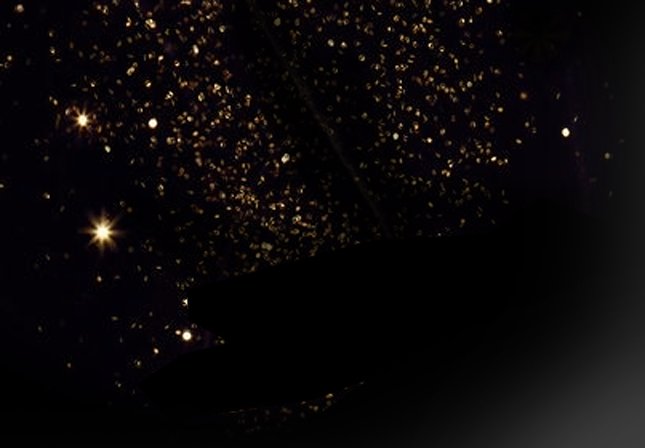
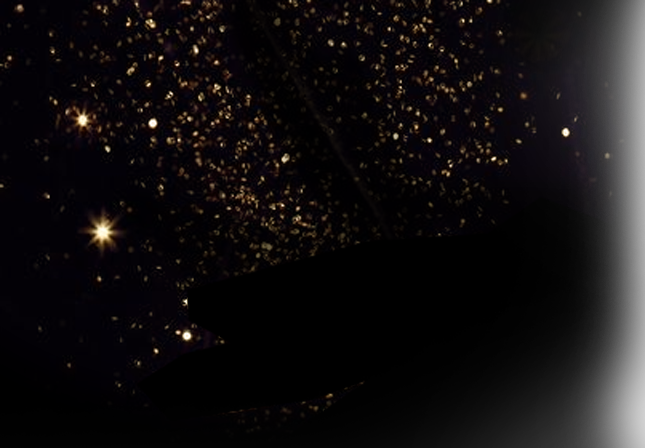
image 배치

Changed region(s): [[0.8682, 0.0, 1.0, 1.0]]

diff --git a/css/style.css b/css/style.css
@@ -30,7 +30,22 @@ body { font: 12px /1.4 arial, sans-serif; color:#666; overflow-x:hidden;}
 #gnb>li>a {display:inline-block;color:#fff; cursor:pointer;}
 #gnb>li>a.on { color:#d01964; }
 
-  
+
+.imggrp {}
+.imggrp img:nth-child(1) {position:absolute; top:40%; left:50%;transform:translateX(-54%) translateY(-50%);}
+
+.imggrp img:nth-child(2) {position:absolute; top:40%; left:44%;transform:translateX(-160%) translateY(60%);}
+.imggrp img:nth-child(3) {position:absolute; top:40%; left:48%;transform:translateX(-110%) translateY(50%);}
+.imggrp img:nth-child(4) {position:absolute; top:40%; left:48%;transform:translateX(15%) translateY(60%);z-index:50;}
+.imggrp img:nth-child(5) {position:absolute; top:40%;right:48%;transform:translateX(170%) translateY(-10%);}
+
+
+
+
+.imggrp img:nth-child(6) {position:absolute; top:35%; left:50%;transform:translateX(-50%) translateY(-50%);z-index:50;}
+
+
+
 
 .box {width:100vw; height:100vh;overflow:hidden;}
 /*box포지션 relative하니까 header 안나옴..*/

diff --git a/index.html b/index.html
@@ -31,6 +31,16 @@
                 <li><a href="#box6">Special Order</a></li>
         </ul>
         
+        <div class="imggrp">
+            <img src="img/img1.png" alt="">
+            <img src="img/img2.png" alt="">
+            <img src="img/img3.png" alt="">
+            <img src="img/img4.png" alt="">
+            <img src="img/img5.png" alt="">
+            <img src="img/img6.png" alt="">
+        </div>
+        
+        
     </div>
   
 
